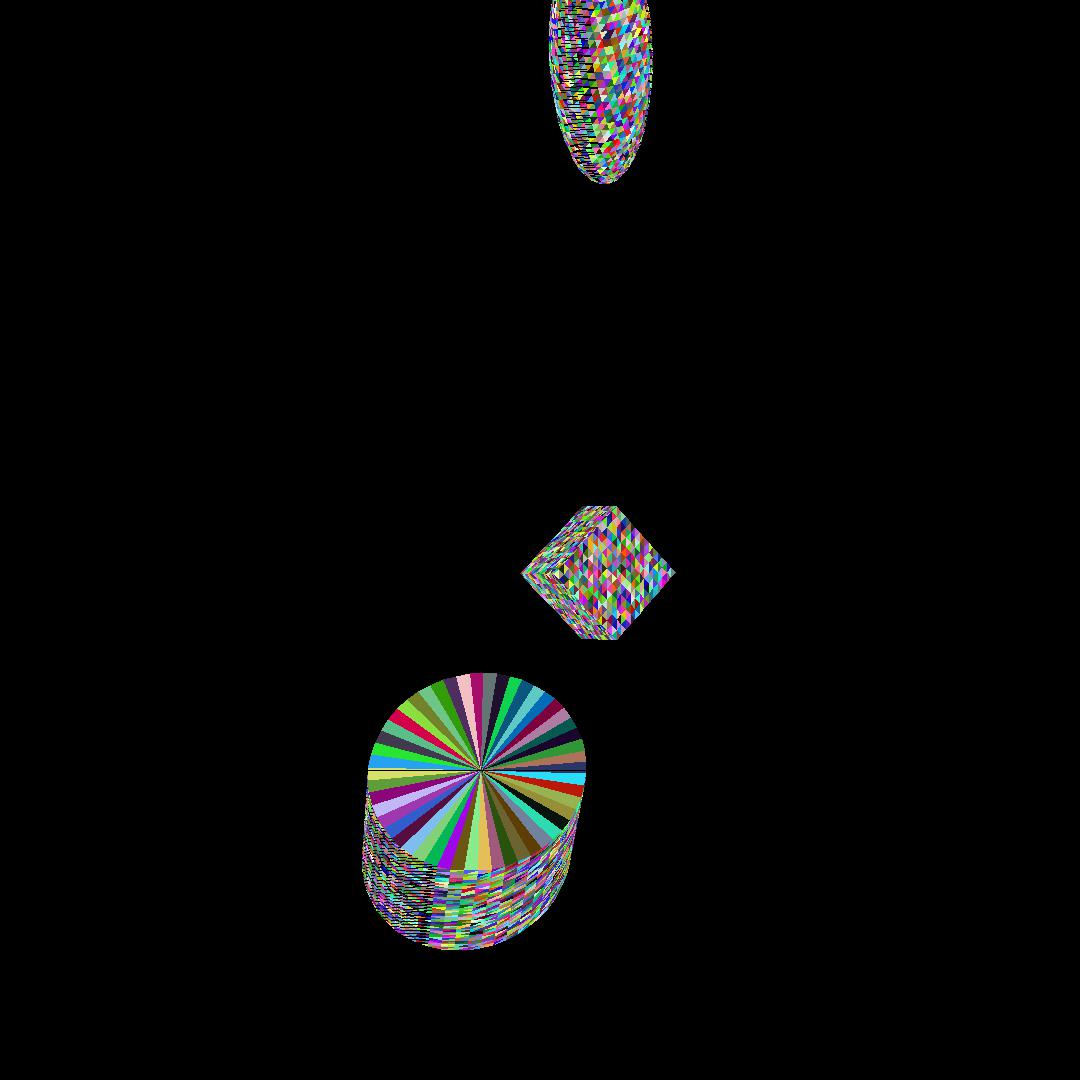
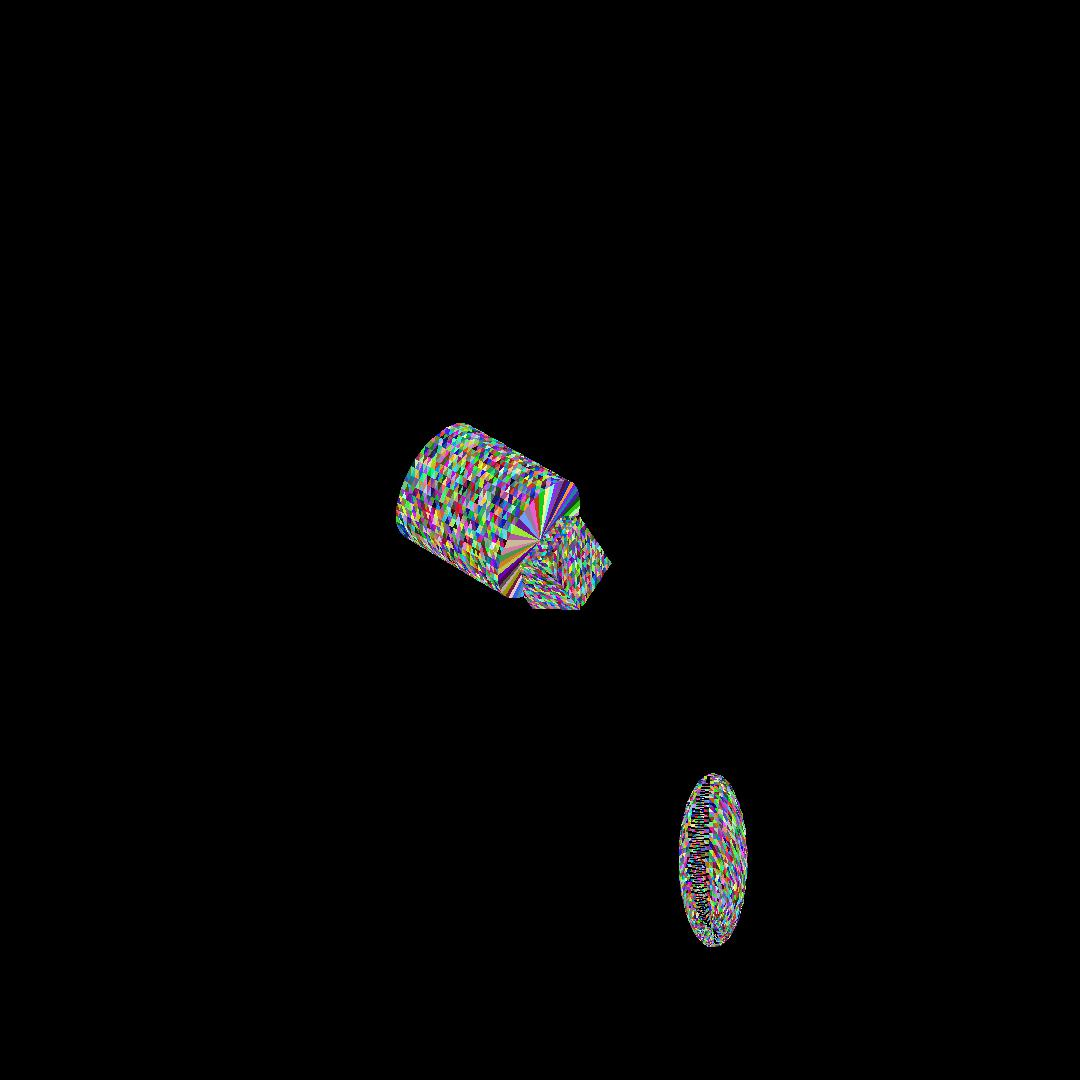
tings

diff --git a/a4/main.py b/a4/main.py
@@ -27,8 +27,8 @@ def main():
     sphere.add_transformation(TransformationFactory.y_rotation(35))
 
     scene0 = Scene()
-    scene0.add_mesh(cylndr, (0.0, 0.0, -3.0))
-    scene0.add_mesh(cube, (-2.0, -2.0, 1.0))
+    scene0.add_mesh(cylndr, (0.0, -1.0, 0.0))
+    scene0.add_mesh(cube, (0.0, 1.0, 0.0))
     scene0.add_mesh(sphere, (5.0, 5.0, 1.0))
 
     # cubeFactory.build_triangle_mesh(300)
@@ -38,9 +38,9 @@ def main():
     # myScene.add_mesh(floor_mesh, (0.0, 0.0, -1.0))
 
     camera = ViewSystem(scene0)
-    camera.build_camera(0.0, 20.0, 150.0)
+    camera.build_camera(0.0, 0.0, 150.0)
     camera.build_view_volume(23.0, 200.0, 5.0)
-    # camera.render_scene(1080, "renders/scene0")
+    camera.render_scene(1080, "renders/scene0")
     camera.scene.reset()
 
     sphere1 = sphereFactory.build_triangle_mesh(4000)

diff --git a/a4/Renderer.py b/a4/Renderer.py
@@ -60,7 +60,7 @@ class Renderer:
                 for pixel in line:
                     x, y, z = pixel[0], pixel[1], pixel[2]
                     if y != y_max:
-                        if row_dict.get(y) == None:xw
+                        if row_dict.get(y) == None:
                             print(face.get_edges())
                             print(line)
                         row = row_dict[y]

diff --git a/a3/main.py b/a3/main.py
@@ -28,7 +28,7 @@ def main():
 
     scene0 = Scene()
     scene0.add_mesh(cylndr, (0.0, 0.0, -3.0))
-    scene0.add_mesh(cube, (-2.0, -2.0, 1.0))
+    scene0.add_mesh(cube, (-2.0, 0.0, 1.0))
     scene0.add_mesh(sphere, (5.0, 5.0, 1.0))
 
     # cubeFactory.build_triangle_mesh(300)

diff --git a/a4/Face.py b/a4/Face.py
@@ -8,6 +8,7 @@ class Face:
         self.v3 = vertex3
         self.nN = self.generate_normal()
         self.rgb = color
+        self.neighbours = []
         
     # returns list of edges
     def get_edges(self):
